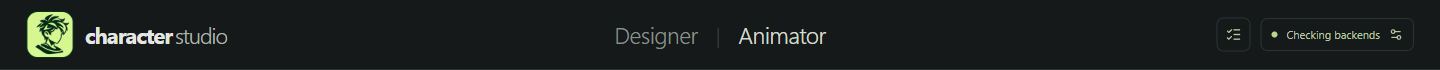
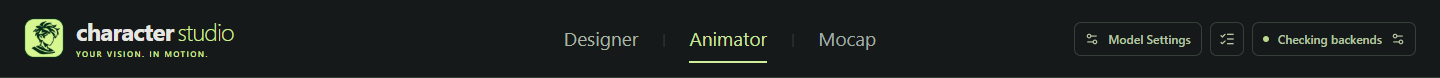
Align app header typography and spacing with Sound Studio

diff --git a/src/renderer/workspace.css b/src/renderer/workspace.css
@@ -17,15 +17,15 @@
   color: var(--text-primary);
 }
 .app { min-height: 0; }
-.app > .topbar { display: grid; grid-template-columns: minmax(0,1fr) auto minmax(0,1fr); background: var(--surface-header); height: 68px; }
-.topbar > .brand { justify-self: start; }
-.brand > .brand-mark { width: 42px; height: 42px; display: block; object-fit: contain; background: none; border-radius: 0; }
+.app > .topbar { display: grid; grid-template-columns: minmax(0,1fr) auto minmax(0,1fr); background: var(--surface-header); font-family: "Segoe UI Variable", "Segoe UI", sans-serif; height: 78px; padding: 0 24px; gap: 20px; }
+.topbar > .brand { justify-self: start; gap: 12px; }
+.brand > .brand-mark { width: 40px; height: 40px; flex-shrink: 0; display: block; object-fit: contain; background: none; border-radius: 0; }
 .brand-name { display: flex; flex-direction: column; gap: 3px; }
 .brand-name > strong { font-size: 24px; font-weight: 700; letter-spacing: -.8px; line-height: 1.1; }
 .brand-name > strong > span { color: var(--accent-primary); font-weight: 300; margin-left: 4px; }
 .brand-tagline { color: var(--accent-primary); font-size: 8px; font-weight: 500; letter-spacing: 1.5px; line-height: 1.4; text-transform: uppercase; }
-.topbar > .topbar-actions { justify-self: end; }
-.topbar-actions > .connection { height: 34px; white-space: nowrap; }
+.topbar > .topbar-actions { justify-self: end; gap: 8px; }
+.topbar-actions > .connection { height: 34px; font-size: 12px; font-weight: 500; line-height: 16px; white-space: nowrap; }
 .connection.icon-only { width: 34px; padding: 0; flex-shrink: 0; }
 .workspace-tabs { display: flex; align-items: center; gap: 24px; justify-self: center; }
 .workspace-tabs button { padding: 10px 0; border: 0; border-bottom: 2px solid transparent; border-radius: 0; background: transparent; color: var(--text-secondary); font-size: 19px; }
@@ -116,11 +116,12 @@
 .section-kicker { color: var(--text-secondary); }
 footer { background: var(--surface-header); color: var(--text-secondary); border-color: var(--line); }
 @media (min-width: 1600px) { .workflow-layout { grid-template-columns: 320px minmax(0,1fr); } }
+@media (max-width: 1200px) {
+  .app > .topbar { padding: 0 18px; }
+  .topbar > .topbar-actions { gap: 6px; }
+}
 @media (max-width: 1180px) {
-  .app > .topbar { padding: 0 16px; gap: 12px; }
-  .brand strong { font-size: 19px; }
-  .topbar-actions { gap: 6px; }
-  .topbar-actions .connection { font-size: 10px; padding: 8px; }
+  .topbar-actions .connection { padding: 8px; }
   .workflow-layout { grid-template-columns: 270px minmax(0,1fr); }
   .workflow-layout > .workflow-settings { padding: 20px 16px; }
   .workflow-layout > .workflow-main { padding: 0 16px 20px; }
@@ -130,7 +131,7 @@ footer { background: var(--surface-header); color: var(--text-secondary); border
   .graph-library .library-grid, .graph-library .batch-workspace { grid-template-columns: 260px minmax(0,1fr); gap: 14px; }
 }
 @media (max-width: 900px) {
-  .app > .topbar { grid-template-columns: auto 1fr; height: auto; min-height: 68px; padding: 10px 14px; }
+  .app > .topbar { grid-template-columns: auto 1fr; height: auto; min-height: 78px; padding: 10px 14px; }
   .topbar > .topbar-actions { grid-column: 1 / -1; justify-self: end; }
   .workflow-layout { grid-template-columns: 240px minmax(0,1fr); }
   .process-stepper { overflow-x: auto; }

diff --git a/src/renderer/App.tsx b/src/renderer/App.tsx
@@ -196,7 +196,7 @@ export function App() {
   ]
   return <div className="app">
     <header className="topbar">
-      <div className="brand"><img className="brand-mark" src="./icon.png" alt="" width={48} height={48} /><div className="brand-name"><strong>character<span>studio</span></strong><span className="brand-tagline">Your vision. In motion.</span></div></div>
+      <div className="brand"><img className="brand-mark" src="./icon.png" alt="" width={40} height={40} /><div className="brand-name"><strong>character<span>studio</span></strong><span className="brand-tagline">Your vision. In motion.</span></div></div>
       <nav className="workspace-tabs" role="tablist" aria-label="Character workspace" onKeyDown={event => {
         if (handDirty || !['ArrowLeft', 'ArrowRight', 'Home', 'End'].includes(event.key)) return
         event.preventDefault()

diff --git a/docs/model-settings-ux-plan.md b/docs/model-settings-ux-plan.md
@@ -48,3 +48,19 @@ New Character Studio installations start with the recommended SD 1.5/DreamShaper
 - Desktop checks cover fresh and saved-custom settings, keyboard access, focus restoration, visible errors, supported minimum window size, and relaunch persistence. Character changes retain MCP operability.
 - Run each repository's existing tests, type checking and build, plus the relevant desktop/MCP checks. Do not install model weights or start paid inference to validate a settings UX.
 - Submit both PRs with the shared-plan link, accurate scope, validation evidence and any real limitations; cross-link the companion PRs.
+
+## Shared app-header metrics
+
+The app-drawn headers use the same geometry and typography, while retaining each application's name, icon artwork and accent color. Native operating-system title bars remain native, including their active/inactive appearance.
+
+| Element | Shared desktop value |
+|---|---|
+| Font stack | `"Segoe UI Variable", "Segoe UI", sans-serif` |
+| Header | 78 px including bottom border; 24 px horizontal padding above 1200 px, 18 px at or below 1200 px; no vertical padding; 20 px column gap |
+| Brand icon | 40 by 40 px, non-shrinking; 12 px gap before text |
+| Wordmark | 24 px; line-height 1.1; -0.8 px letter spacing; first word weight 700, `studio` weight 300; explicit 4 px inter-word spacing |
+| Tagline | 8 px, weight 500, line-height 1.4, 1.5 px letter spacing, uppercase; 3 px gap below wordmark |
+| Header actions | 34 px high; 12 px, weight 500, 16 px line-height; 8 px gap, reduced to 6 px at or below 1200 px |
+| Workspace labels | 19 px |
+
+Keep the brand metrics at each app's supported desktop minimum. Preserve the existing narrow-preview fallback rather than forcing desktop geometry into unsupported small widths. Verify the computed metrics and overflow at normal/minimum sizes and higher zoom. Scroll containers around Model Settings controls must include room for the visible keyboard focus outline rather than clipping or hiding it.

diff --git a/GUIDE.md b/GUIDE.md
@@ -49,9 +49,9 @@ Actual desktop/MCP captures from isolated empty test workspaces, not generated a
 
 ### App identity and titlebar
 
-![Character Studio titlebar with a large green anime avatar icon beside the app name, Designer and Animator tabs, and setup and backend controls](docs/screenshots/app-titlebar.png)
+![Character Studio app header with its green avatar icon, shared wordmark typography, workspace tabs, and model, setup and backend controls](docs/screenshots/app-titlebar.png)
 
-The green avatar artwork is used for the desktop window and packaged Windows application. This older titlebar capture predates the shared **Model Settings** launcher; see the current layout above.
+The green avatar artwork is used for the desktop window and packaged Windows application. The app-drawn header shares Sound Studio's Segoe UI font stack, 78 px desktop height, 40 px icon and 24 px wordmark, with matching spacing and 34 px actions. Names, icon artwork and accent colors remain distinct. The [shared header metrics](docs/model-settings-ux-plan.md#shared-app-header-metrics) also specify compact padding and tagline typography. The native Windows titlebar remains OS-managed.
 
 ### Setup checklist on first launch
 
